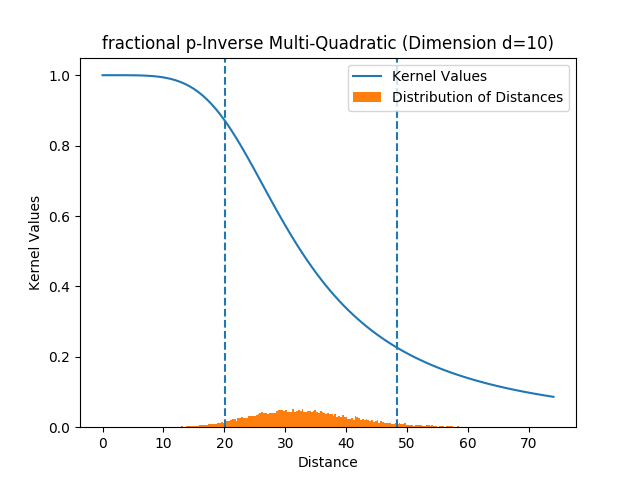
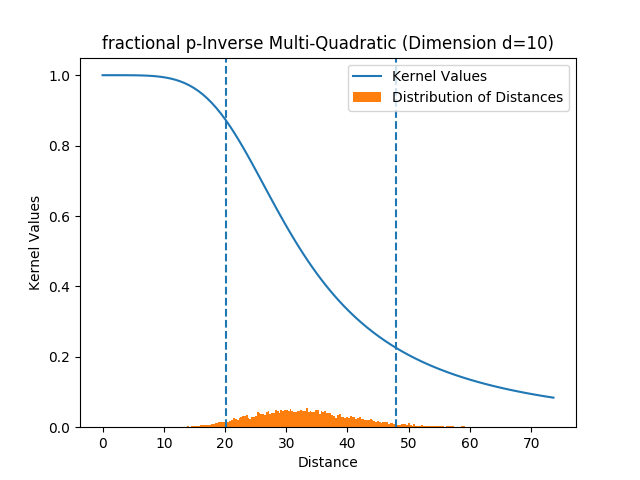
g9 added

diff --git a/Presentation 1/Code/c9_fpk_p_kernels.py b/Presentation 1/Code/c9_fpk_p_kernels.py
@@ -1,0 +1,152 @@
+import numpy as np
+import numpy as np
+import matplotlib.pyplot as plt
+from math import pi,e
+from kernel_implementations import * 
+
+dimensions = [ 2, 10, 100 ]
+N = 10000 
+
+k = 0.6
+df1 = lambda x : get_distances(x,order=k)**k 
+
+for dim in dimensions:
+	sigma_data=1.0
+	actual_data = np.random.multivariate_normal(mean=np.zeros(dim), cov=sigma_data**2 * np.eye(dim), size=N) 
+	actual_distances = df1(actual_data) 
+	d_5, d_50, d_95 = np.percentile(actual_distances,5),np.percentile(actual_distances,50),np.percentile(actual_distances,95)
+	p = np.log(np.log(0.05)/np.log(0.95)) / np.log(d_95/d_5) 
+	sigma = d_50/((-np.log(0.50))**(1/p))
+	
+	dist_vals = np.linspace( 0, np.max( (np.max(actual_distances)+5, 15) ) , 100)
+	kernel_vals = p_gaussian_kernel(dist_vals,p,sigma) 
+
+	fig,ax=plt.subplots()
+	ax.plot(dist_vals,kernel_vals,label="Kernel Values") 
+	ax.hist(actual_distances,bins=200,density=True,label="Distribution of Distances") 
+	ax.axvline(d_5,ls='--')
+	ax.axvline(d_95,ls='--')
+	ax.set_xlabel('Distance')
+	ax.set_ylabel('Kernel Values')
+	ax.set_title("fractional^p p-Gaussian (Dimension d="+str(dim)+")")
+	ax.legend() 
+	fig.savefig('../Graphs/g9_improvement_fp_Gaussian_dim='+str(dim)+'.png')
+
+for dim in dimensions:
+	sigma_data=1.0
+	actual_data = np.random.multivariate_normal(mean=np.zeros(dim), cov=sigma_data**2 * np.eye(dim), size=N) 
+	actual_distances = df1(actual_data) 
+	d_5, d_50, d_95 = np.percentile(actual_distances,5),np.percentile(actual_distances,50),np.percentile(actual_distances,95)
+	p = np.log(np.log(0.05)/np.log(0.95)) / np.log(d_95/d_5) 
+
+	dist_vals = np.linspace( 0, np.max(actual_distances)+5 , 100)
+	kernel_vals = p_rational_quadratic_kernel(dist_vals,c=(d_50)**2,p=p) 
+	kernel_vals = kernel_vals/np.max(kernel_vals)
+
+	fig,ax=plt.subplots()
+	ax.plot(dist_vals,kernel_vals,label="Kernel Values") 
+	ax.hist(actual_distances,bins=200,density=True,label="Distribution of Distances") 
+	ax.axvline(d_5,ls='--')
+	ax.axvline(d_95,ls='--')
+	ax.set_xlabel('Distance')
+	ax.set_ylabel('Kernel Values')
+	ax.set_title("fractional^p p-Rational Quadratic (Dimension d="+str(dim)+")")
+	ax.legend() 
+	fig.savefig('../Graphs/g9_improved_fp_RationalQuadratic_dim='+str(dim)+'.png')
+
+
+for dim in dimensions:
+	sigma_data=1.0
+	actual_data = np.random.multivariate_normal(mean=np.zeros(dim), cov=sigma_data**2 * np.eye(dim), size=N) 
+	actual_distances = df1(actual_data) 
+	d_5, d_50, d_95 = np.percentile(actual_distances,5),np.percentile(actual_distances,50),np.percentile(actual_distances,95)
+	p = np.log(np.log(0.05)/np.log(0.95)) / np.log(d_95/d_5) 
+
+	dist_vals = np.linspace( 0, np.max(actual_distances)+5 , 100)
+	kernel_vals = p_inverse_multiquadratic_kernel(dist_vals,c=(d_50)/(3**(1/p)),p=p) 
+	kernel_vals = kernel_vals/np.max(kernel_vals)
+
+	fig,ax=plt.subplots()
+	ax.plot(dist_vals,kernel_vals,label="Kernel Values") 
+	ax.hist(actual_distances,bins=200,density=True,label="Distribution of Distances") 
+	ax.axvline(d_5,ls='--')
+	ax.axvline(d_95,ls='--')
+	ax.set_xlabel('Distance')
+	ax.set_ylabel('Kernel Values')
+	ax.set_title("fractional^p p-Inverse Multi-Quadratic (Dimension d="+str(dim)+")")
+	ax.legend() 
+	fig.savefig('../Graphs/g9_improved_fp_InverseMultiQuadratic_dim='+str(dim)+'.png')
+
+
+
+for dim in dimensions:
+	sigma_data=1.0
+	actual_data = np.random.multivariate_normal(mean=np.zeros(dim), cov=sigma_data**2 * np.eye(dim), size=N) 
+	actual_distances = df1(actual_data) 
+	d_5, d_50, d_95 = np.percentile(actual_distances,5),np.percentile(actual_distances,50),np.percentile(actual_distances,95)
+	p = np.log(np.log(0.05)/np.log(0.95)) / np.log(d_95/d_5) 
+
+	dist_vals = np.linspace( 0, np.max(actual_distances)+5 , 100)
+	kernel_vals = p_cauchy_kernel(dist_vals,s=d_50,p=p) 
+	kernel_vals = kernel_vals/np.max(kernel_vals)
+
+	fig,ax=plt.subplots()
+	ax.plot(dist_vals,kernel_vals,label="Kernel Values") 
+	ax.hist(actual_distances,bins=200,density=True,label="Distribution of Distances") 
+	ax.axvline(d_5,ls='--')
+	ax.axvline(d_95,ls='--')
+	ax.set_xlabel('Distance')
+	ax.set_ylabel('Kernel Values')
+	ax.set_title("fractional^p p-Cauchy (Dimension d="+str(dim)+")")
+	ax.legend() 
+	fig.savefig('../Graphs/g9_improved_fp_Cauchy_dim='+str(dim)+'.png')
+
+
+for dim in dimensions:
+	sigma_data=1.0
+	actual_data = np.random.multivariate_normal(mean=np.zeros(dim), cov=sigma_data**2 * np.eye(dim), size=N) 
+	actual_distances = df1(actual_data) 
+	d_5, d_50, d_95 = np.percentile(actual_distances,5),np.percentile(actual_distances,50),np.percentile(actual_distances,95)
+	p = np.log(np.log(0.05)/np.log(0.95)) / np.log(d_95/d_5) 
+
+	dist_vals = np.linspace( 0, np.max(actual_distances)+5 , 100)
+	kernel_vals = p_matern_kernel(dist_vals,l=d_50,p=p) 
+	kernel_vals = kernel_vals/np.max(kernel_vals)
+
+	fig,ax=plt.subplots()
+	ax.plot(dist_vals,kernel_vals,label="Kernel Values") 
+	ax.hist(actual_distances,bins=200,density=True,label="Distribution of Distances") 
+	ax.axvline(d_5,ls='--')
+	ax.axvline(d_95,ls='--')
+	ax.set_xlabel('Distance')
+	ax.set_ylabel('Kernel Values')
+	ax.set_title("fractional^p p-Matern Kernel (Dimension d="+str(dim)+")")
+	ax.legend() 
+	fig.savefig('../Graphs/g9_improved_fp_Matern_dim='+str(dim)+'.png')
+
+for dim in dimensions:
+	sigma_data=1.0
+	actual_data = np.random.multivariate_normal(mean=np.zeros(dim), cov=sigma_data**2 * np.eye(dim), size=N) 
+	actual_distances = df1(actual_data) 
+	d_5, d_50, d_95 = np.percentile(actual_distances,5),np.percentile(actual_distances,50),np.percentile(actual_distances,95)
+	p = np.log(np.log(0.05)/np.log(0.95)) / np.log(d_95/d_5) 
+
+	dist_vals = np.linspace( 0, np.max(actual_distances)+5 , 100)
+	kernel_vals = p_laplace_kernel(dist_vals,sigma=d_50/((-np.log(0.5))**(1/p)),p=p) 
+	kernel_vals = kernel_vals/np.max(kernel_vals)
+
+	fig,ax=plt.subplots()
+	ax.plot(dist_vals,kernel_vals,label="Kernel Values") 
+	ax.hist(actual_distances,bins=200,density=True,label="Distribution of Distances") 
+	ax.axvline(d_5,ls='--')
+	ax.axvline(d_95,ls='--')
+	ax.set_xlabel('Distance')
+	ax.set_ylabel('Kernel Values')
+	ax.set_title("fractional^p p-LaPlace Kernel (Dimension d="+str(dim)+")")
+	ax.legend() 
+	fig.savefig('../Graphs/g9_improved_fp_LaPlace_dim='+str(dim)+'.png')
+
+
+# plt.show()
+
+
